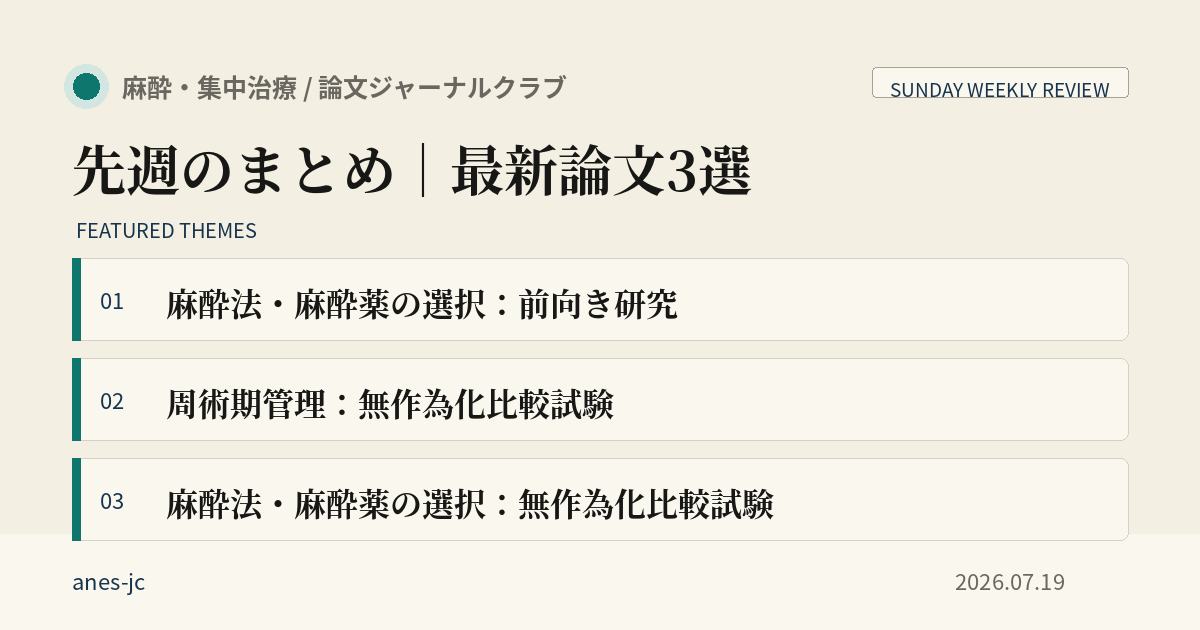
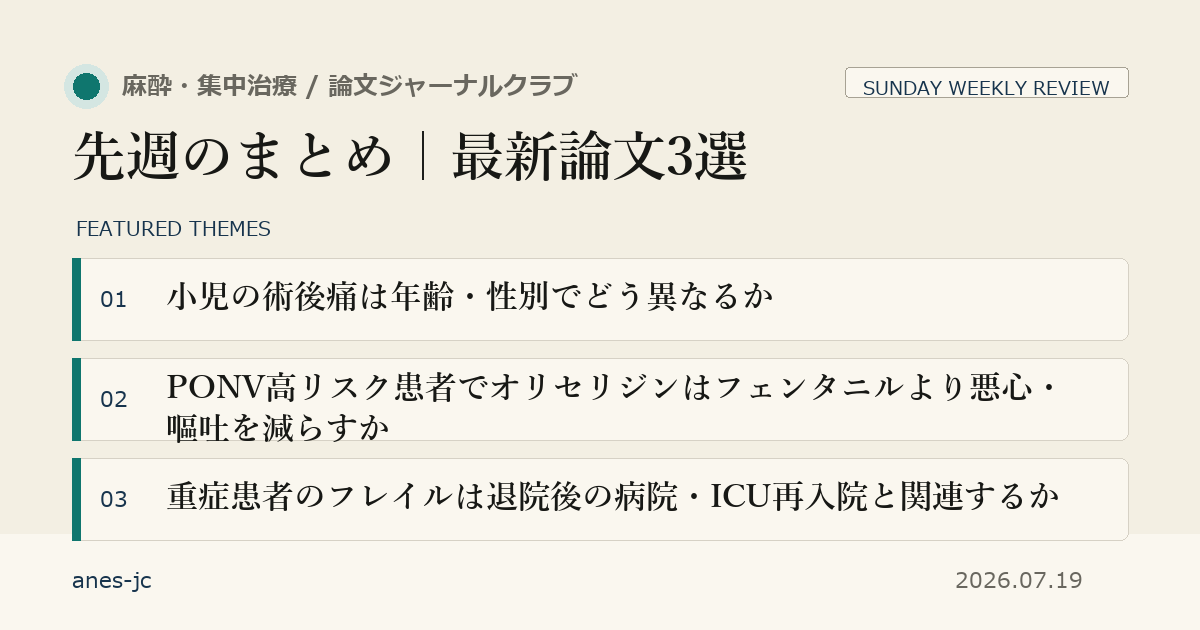
Harden Sunday generation and repair July 19 article

diff --git a/articles/latest-papers-2026-07-19.html b/articles/latest-papers-2026-07-19.html
@@ -22,7 +22,7 @@
     "https://anes-jc.github.io/assets/og/latest-papers-2026-07-19.png?v=2026-07-19"
   ],
   "datePublished": "2026-07-19T00:00:00+09:00",
-  "dateModified": "2026-07-19T00:00:00+09:00",
+  "dateModified": "2026-07-27T00:00:00+09:00",
   "author": {
     "@type": "Organization",
     "name": "anes-jc"
@@ -43,35 +43,35 @@
 <script src="../assets/analytics.js" defer></script>
 </head><body><header class="bar"><div class="bar-in"><a class="brand" href="../index.html"><span class="dot"></span>麻酔・集中治療 / 論文ジャーナルクラブ</a><div class="bar-actions"><a class="back" href="../articles.html">← 記事一覧</a></div></div></header><div class="wrap">
 <div class="ahead"><div class="kicker"><a class="pill cls" href="../tags.html?tag=先週のまとめ">SUN · 先週のまとめ</a><a class="pill" href="../tags.html?tag=最新論文">最新論文</a></div>
-<h1><span class="title-part">先週のまとめ</span><span class="title-sep">｜</span><span class="title-part title-tail">最新論文3選</span></h1><div class="cite">2026-07-19 公開<br>対象期間: 2026-07-13 - 2026-07-19</div></div>
+<h1><span class="title-part">先週のまとめ</span><span class="title-sep">｜</span><span class="title-part title-tail">最新論文3選</span></h1><div class="cite">2026-07-19 公開<br>2026-07-27 内容修正<br>対象期間: 2026-07-13 - 2026-07-19</div></div>
 <section class="sec"><div class="sechd"><h2>先週の記事一覧</h2></div><ul class="site-list">
     <li><a href="../articles/rcri.html">手術前の心リスクを予測できるか — RCRIと予測モデルの導出・前向き検証</a><span>2026.07.17</span></li>
     <li><a href="../articles/sepsis-en-timing.html">早期経腸栄養は敗血症性ショックの死亡を減らすか — 不死時間バイアスとターゲット試験エミュレーション</a><span>2026.07.15</span></li>
     <li><a href="../articles/sepsis-remote-monitoring.html">敗血症後の遠隔モニタリングは再入院を防ぐか — ACCOMPLISH試験と「自宅で過ごせた日数」の読み方</a><span>2026.07.13</span></li></ul></section>
 <section class="sec"><div class="sechd"><h2>最新論文3選</h2></div><article class="paper-card">
-      <h2>麻酔法・麻酔薬の選択：前向き研究</h2>
-      <p class="design">前向き研究</p>
-      <p class="summary"><span>日本語メモ</span>麻酔法・麻酔薬の選択を扱った前向き研究です。自動生成記事ではタイトル・抄録・書誌情報の範囲で紹介しているため、主要評価項目と数値結果はリンク先の抄録・原文で確認してください。</p>
-      <h3>Pain and Supplemental Anaesthesia in Mandibular Molar Root Canal Therapy: A Prospective Cohort Analysis of Bone Anatomy and Diagnostic Variables.</h3>
-      <p class="meta">Australian endodontic journal : the journal of the Australian Society of Endodontology Inc / 2026-07-15</p>
-      <p class="source-id">DOI: 10.1111/aej.70107</p>
-      <a class="source" href="https://doi.org/10.1111%2Faej.70107">抄録・原文を見る →</a>
+      <h2>小児の術後痛は年齢・性別でどう異なるか</h2>
+      <p class="design">前向きコホート研究</p>
+      <p class="summary"><span>日本語メモ（論文ID照合済み）</span>PAIN OUTレジストリに前向き登録された4〜18歳の術後患者2,005例を解析した研究です。79%が中等度〜重度の痛みを経験し、痛みは年齢とともに強くなって12歳前後でピークとなり、特に女児で目立ちました。手術の種類やオピオイド使用量などを調整した解析でも女児では年齢に伴う増加が示され、年齢・性別を考慮した小児術後鎮痛の必要性を示しています。</p>
+      <h3>Age-related patterns in postoperative pain: insights from the paediatric pain out registry: A prospective cohort study.</h3>
+      <p class="meta">European journal of anaesthesiology / 2026-07-17</p>
+      <p class="source-id">DOI: 10.1097/eja.0000000000002459</p>
+      <a class="source" href="https://doi.org/10.1097%2Feja.0000000000002459">抄録・原文を見る →</a>
     </article><article class="paper-card">
-      <h2>周術期管理：無作為化比較試験</h2>
-      <p class="design">無作為化比較試験</p>
-      <p class="summary"><span>日本語メモ</span>周術期管理を扱った無作為化比較試験です。自動生成記事ではタイトル・抄録・書誌情報の範囲で紹介しているため、主要評価項目と数値結果はリンク先の抄録・原文で確認してください。</p>
-      <h3>Perioperative tislelizumab plus chemotherapy for locally advanced gastric cancer: A randomized, prospective phase 2 trial.</h3>
-      <p class="meta">Cancer cell / 2026-07-15</p>
-      <p class="source-id">DOI: 10.1016/j.ccell.2026.06.015</p>
-      <a class="source" href="https://doi.org/10.1016%2Fj.ccell.2026.06.015">抄録・原文を見る →</a>
-    </article><article class="paper-card">
-      <h2>麻酔法・麻酔薬の選択：無作為化比較試験</h2>
-      <p class="design">無作為化比較試験</p>
-      <p class="summary"><span>日本語メモ</span>麻酔法・麻酔薬の選択を扱った無作為化比較試験です。自動生成記事ではタイトル・抄録・書誌情報の範囲で紹介しているため、主要評価項目と数値結果はリンク先の抄録・原文で確認してください。</p>
+      <h2>PONV高リスク患者でオリセリジンはフェンタニルより悪心・嘔吐を減らすか</h2>
+      <p class="design">二重盲検無作為化比較試験</p>
+      <p class="summary"><span>日本語メモ（論文ID照合済み）</span>全身麻酔とTAPブロックを受けるPONV高リスク患者280例を、オリセリジン群とフェンタニル群に無作為化した試験です。解析対象279例で、オリセリジン群はフェンタニル群に比べ悪心が12.9%対26.4%、嘔吐が6.5%対24.3%と少なく、救済制吐薬の使用も7.2%対17.1%でした。単一試験の結果であり、他の手術・患者集団への一般化には追加検証が必要です。</p>
       <h3>Influence of Oliceridine on the Incidence of Postoperative Nausea and Vomiting in High-Risk Patients Stratified Using Apfel Score After General Anesthesia: A Prospective, Randomized Controlled Clinical Study.</h3>
       <p class="meta">Journal of investigative surgery : the official journal of the Academy of Surgical Research / 2026-07-14</p>
       <p class="source-id">DOI: 10.1080/08941939.2026.2698141</p>
       <a class="source" href="https://doi.org/10.1080%2F08941939.2026.2698141">抄録・原文を見る →</a>
+    </article><article class="paper-card">
+      <h2>重症患者のフレイルは退院後の病院・ICU再入院と関連するか</h2>
+      <p class="design">システマティックレビュー・メタ解析</p>
+      <p class="summary"><span>日本語メモ（論文ID照合済み）</span>観察研究11件・計1,051,568例を統合したメタ解析です。フレイルは病院再入院リスクの上昇と関連しました（統合RR 1.66、95%信頼区間1.16〜2.37）が、ICU再入室との関連は統計学的に明確ではありませんでした（統合RR 1.55、95%信頼区間0.93〜2.58）。研究間の異質性が大きく、フレイル評価法や対象集団の違いを踏まえた解釈が必要です。</p>
+      <h3>Impact of frailty on hospital and intensive care unit readmission among critically ill patients: A systematic review and meta-analysis.</h3>
+      <p class="meta">Medicina intensiva / 2026-07-13</p>
+      <p class="source-id">DOI: 10.1016/j.medine.2026.502565</p>
+      <a class="source" href="https://doi.org/10.1016%2Fj.medine.2026.502565">抄録・原文を見る →</a>
     </article></section>
 <section class="sec"><div class="sechd"><h2>このページについて</h2></div><p>このページは、週次の定点観測として毎週日曜に自動生成・自動公開しています。</p></section>
 </div><footer><div class="wrap"><p class="disc">本記事は論文情報の共有を目的としており、個別の診療判断を代替するものではありません。</p><a class="foot-x" href="../feed.xml">RSSで更新を受け取る</a>

diff --git a/articles/latest-papers-2026-07-26.html b/articles/latest-papers-2026-07-26.html
@@ -51,7 +51,7 @@
 <section class="sec"><div class="sechd"><h2>最新論文3選</h2></div><article class="paper-card">
       <h2>腹腔鏡下大腸手術で脊髄くも膜下麻酔を併用すると、鎮痛と腸管回復はどうなるか</h2>
       <p class="design">前向きコホート＋システマティックレビュー・メタ解析</p>
-      <p class="summary"><span>日本語メモ</span>前向きコホート242例と無作為化試験5件・338例のメタ解析です。全身麻酔への脊髄くも膜下麻酔の追加は、早期疼痛と術後24時間のオピオイド使用を減らしましたが、排ガス・排便・経口摂取までの時間、遷延性術後イレウス、在院日数は改善しませんでした。鎮痛補助としては有望でも、腸管回復を早める手段とはいえない結果です。</p>
+      <p class="summary"><span>日本語メモ（論文ID照合済み）</span>前向きコホート242例と無作為化試験5件・338例のメタ解析です。全身麻酔への脊髄くも膜下麻酔の追加は、早期疼痛と術後24時間のオピオイド使用を減らしましたが、排ガス・排便・経口摂取までの時間、遷延性術後イレウス、在院日数は改善しませんでした。鎮痛補助としては有望でも、腸管回復を早める手段とはいえない結果です。</p>
       <h3>Spinal anesthesia in laparoscopic colorectal surgery: analgesia and recovery outcomes - a cohort study and systematic review of randomized controlled studies.</h3>
       <p class="meta">Langenbeck&#39;s archives of surgery / 2026-07-20</p>
       <p class="source-id">DOI: 10.1007/s00423-026-04152-w</p>
@@ -59,7 +59,7 @@
     </article><article class="paper-card">
       <h2>閉ループ昇圧薬システムは目標MAP内の時間を増やすか</h2>
       <p class="design">システマティックレビュー・メタ解析</p>
-      <p class="summary"><span>日本語メモ</span>無作為化試験6件・215例を対象とし、うち周術期の5試験をメタ解析しています。手動調整と比べて、閉ループ制御は平均動脈圧（MAP）が目標範囲内にある時間を33.94パーセントポイント増やし、低血圧の時間を18.24パーセントポイント減らしました。一方で高血圧、ノルアドレナリン総量、有害事象には明確な差がなく、研究間の異質性と小規模標本、患者中心アウトカムが未確立な点に注意が必要です。</p>
+      <p class="summary"><span>日本語メモ（論文ID照合済み）</span>無作為化試験6件・215例を対象とし、うち周術期の5試験をメタ解析しています。手動調整と比べて、閉ループ制御は平均動脈圧（MAP）が目標範囲内にある時間を33.94パーセントポイント増やし、低血圧の時間を18.24パーセントポイント減らしました。一方で高血圧、ノルアドレナリン総量、有害事象には明確な差がなく、研究間の異質性と小規模標本、患者中心アウトカムが未確立な点に注意が必要です。</p>
       <h3>Closed-loop vasopressor systems for hemodynamic control in perioperative and critical care settings: a systematic review and meta-analysis.</h3>
       <p class="meta">Journal of clinical monitoring and computing / 2026-07-22</p>
       <p class="source-id">DOI: 10.1007/s10877-026-01463-7</p>
@@ -67,7 +67,7 @@
     </article><article class="paper-card">
       <h2>気管切開後のスピーキングバルブはICUでの早期離床を促すか</h2>
       <p class="design">前向き無作為化比較試験</p>
-      <p class="summary"><span>日本語メモ</span>気管切開後のICU患者90例を、標準リハビリテーションにスピーキングバルブを追加する群47例と対照群43例に割り付けた試験です。21日目のCPAx（ICUでの身体機能評価）は中央値28対22で追加群が高く、嚥下機能と生活の質も改善しました。単施設・小規模試験であり、在院日数などへの効果は今後の検証が必要です。</p>
+      <p class="summary"><span>日本語メモ（論文ID照合済み）</span>気管切開後のICU患者90例を、標準リハビリテーションにスピーキングバルブを追加する群47例と対照群43例に割り付けた試験です。21日目のCPAx（ICUでの身体機能評価）は中央値28対22で追加群が高く、嚥下機能と生活の質も改善しました。単施設・小規模試験であり、在院日数などへの効果は今後の検証が必要です。</p>
       <h3>Effect of speaking valves on early mobilization of patients in intensive care units following tracheostomy: a prospective randomized controlled trial.</h3>
       <p class="meta">Brazilian journal of otorhinolaryngology / 2026-07-22</p>
       <p class="source-id">DOI: 10.1016/j.bjorl.2026.101853</p>
